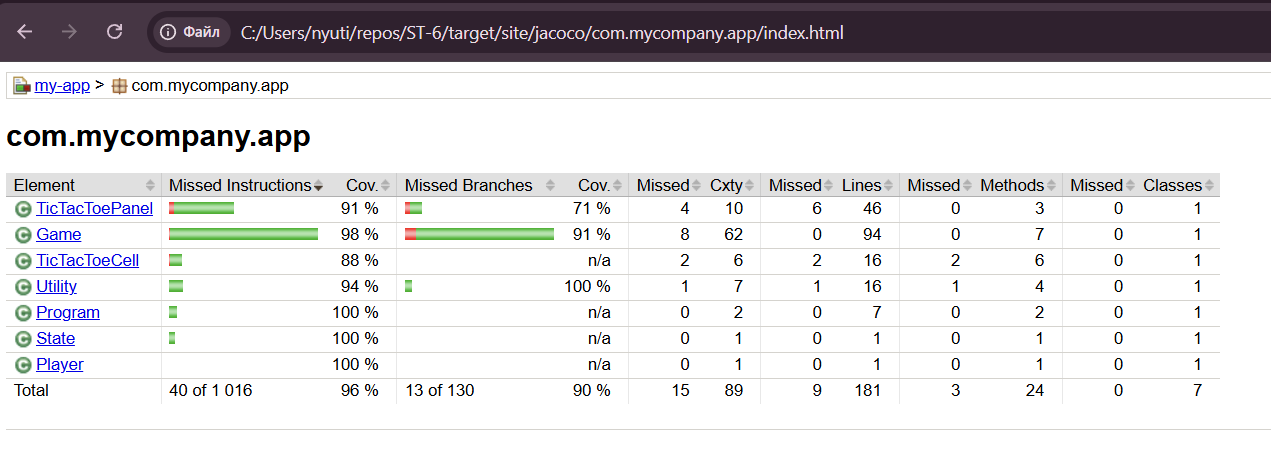
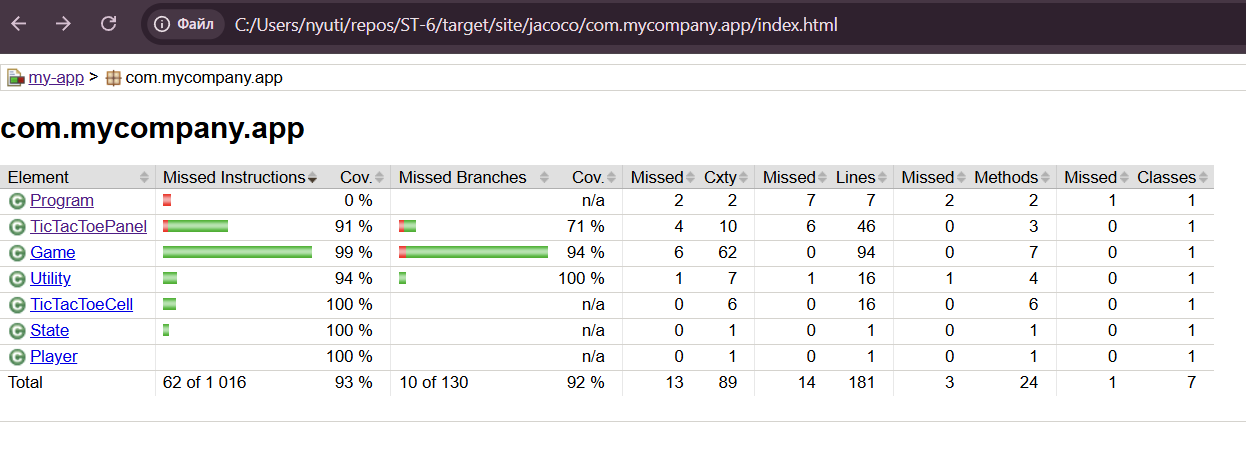
fix11

diff --git a/src/test/java/com/mycompany/app/ProgramTest.java b/src/test/java/com/mycompany/app/ProgramTest.java
@@ -1,122 +1,247 @@
 package com.mycompany.app;
 
-import static org.junit.jupiter.api.Assertions.*;
-import org.junit.jupiter.api.Test;
+import org.junit.Before;
+import org.junit.BeforeClass;
+import org.junit.Test;
+import static org.junit.Assert.*;
+
 import java.util.ArrayList;
 import java.awt.GridLayout;
+import java.awt.HeadlessException;
 import java.awt.event.ActionEvent;
+import java.io.IOException;
 
 public class ProgramTest {
 
+    private Game game;
+
+    @BeforeClass
+    public static void setUpHeadless() {
+        System.setProperty("java.awt.headless", "true");
+    }
+
+    @Before
+    public void setUp() {
+        game = new Game();
+    }
+
     @Test
-    public void testGameInitialization() {
-        Game game = new Game();
+    public void testInitialBoardEmpty() {
+        for (int i = 0; i < 9; i++) {
+            assertEquals(' ', game.board[i]);
+        }
         assertEquals(State.PLAYING, game.state);
-        assertEquals('X', game.player1.symbol);
-        assertEquals('O', game.player2.symbol);
     }
 
     @Test
-    public void testCheckStateWinX() {
-        Game game = new Game();
-        char[] board = {'X', 'X', 'X', ' ', ' ', ' ', ' ', ' ', ' '};
-        game.symbol = 'X'; 
-        assertEquals(State.XWIN, game.checkState(board));
+    public void testCheckStateXWin() {
+        char[] b = {'X','X','X',' ',' ',' ',' ',' ',' '};
+        game.symbol = 'X';
+        assertEquals(State.XWIN, game.checkState(b));
     }
 
     @Test
-    public void testCheckStateWinO() {
-        Game game = new Game();
-        char[] board = {'O', ' ', ' ', 'O', ' ', ' ', 'O', ' ', ' '};
-        game.symbol = 'O'; 
-        assertEquals(State.OWIN, game.checkState(board));
+    public void testCheckStateOWin() {
+        char[] b = {' ',' ',' ','O','O','O',' ',' ',' '};
+        game.symbol = 'O';
+        assertEquals(State.OWIN, game.checkState(b));
     }
 
     @Test
     public void testCheckStateDraw() {
-        Game game = new Game();
-        char[] board = {'X', 'O', 'X', 'X', 'O', 'O', 'O', 'X', 'X'};
-        game.symbol = 'X'; 
-        assertEquals(State.DRAW, game.checkState(board));
+        char[] b = {'X','O','X','X','O','O','O','X','X'};
+        game.symbol = 'X';
+        assertEquals(State.DRAW, game.checkState(b));
     }
 
     @Test
-    public void testGenerateMoves() {
-        Game game = new Game();
-        char[] board = {'X', 'O', ' ', ' ', 'X', 'O', ' ', ' ', 'X'};
+    public void testCheckStatePlaying() {
+        char[] b = {'X',' ',' ',' ',' ',' ',' ',' ',' '};
+        game.symbol = 'X';
+        assertEquals(State.PLAYING, game.checkState(b));
+    }
+
+    @Test
+    public void testGenerateMovesAll() {
         ArrayList<Integer> moves = new ArrayList<>();
-        game.generateMoves(board, moves);
-        assertEquals(4, moves.size());
+        game.generateMoves(game.board, moves);
+        assertEquals(9, moves.size());
     }
 
     @Test
-    public void testEvaluatePosition() {
-        Game game = new Game();
-        char[] board = {'X', 'X', 'X', ' ', ' ', ' ', ' ', ' ', ' '};
-        game.symbol = 'X'; 
-        int eval = game.evaluatePosition(board, game.player1);
-        assertEquals(Game.INF, eval);
+    public void testGenerateMovesPartial() {
+        game.board[0] = 'X';
+        game.board[4] = 'O';
+        ArrayList<Integer> moves = new ArrayList<>();
+        game.generateMoves(game.board, moves);
+        assertEquals(7, moves.size());
+        assertFalse(moves.contains(0));
+        assertFalse(moves.contains(4));
     }
 
     @Test
-    public void testMiniMaxBestMove() {
-        Game game = new Game();
-        // Даем доску с 3 пустыми клетками, чтобы запустить рекурсию MinMove и MaxMove
-        char[] board = {'X', 'O', 'X', ' ', 'O', ' ', ' ', 'X', ' '};
-        int move = game.MiniMax(board, game.player2);
-        assertTrue(move >= 1 && move <= 9);
+    public void testEvaluatePositionWinForPlayer() {
+        char[] b = {'X','X','X',' ',' ',' ',' ',' ',' '};
+        Player p = game.player1;
+        game.symbol = 'X';
+        assertEquals(Game.INF, game.evaluatePosition(b, p));
     }
 
     @Test
-    public void testTicTacToeCell() {
+    public void testEvaluatePositionLoseForPlayer() {
+        char[] b = {'O','O','O',' ',' ',' ',' ',' ',' '};
+        Player p = game.player1;
+        game.symbol = 'O';
+        assertEquals(-Game.INF, game.evaluatePosition(b, p));
+    }
+
+    @Test
+    public void testEvaluatePositionDraw() {
+        char[] b = {'X','O','X','X','O','O','O','X','X'};
+        game.symbol = 'X';
+        Player p = game.player1;
+        assertEquals(0, game.evaluatePosition(b, p));
+    }
+
+    @Test
+    public void testEvaluatePositionNotTerminal() {
+        char[] b = {'X',' ',' ',' ',' ',' ',' ',' ',' '};
+        game.symbol = 'X';
+        Player p = game.player1;
+        assertEquals(-1, game.evaluatePosition(b, p));
+    }
+
+    @Test
+    public void testMiniMaxReturnsValidMove() {
+        int move = game.MiniMax(game.board, game.player2);
+        assertTrue("Move must be in 1..9", move >= 1 && move <= 9);
+        assertEquals(' ', game.board[move-1]);
+    }
+
+    @Test
+    public void testMiniMaxBlockWin() {
+        game.board[0] = 'X';
+        game.board[1] = 'X';
+        game.board[2] = ' ';
+        game.symbol = 'X';
+        int move = game.MiniMax(game.board, game.player2);
+        if (move >= 1 && move <= 9) {
+            game.board[move - 1] = 'O';
+            game.symbol = 'X';
+            assertNotEquals(State.XWIN, game.checkState(game.board));
+        }
+    }
+
+    @Test
+    public void testMiniMaxWinForO() {
+        game.board[3] = 'O';
+        game.board[4] = 'O';
+        game.board[5] = ' ';
+        game.symbol = 'O';
+        int move = game.MiniMax(game.board, game.player2);
+        if (move >= 1 && move <= 9) {
+            game.board[move - 1] = 'O';
+            game.symbol = 'X';
+            assertNotEquals(State.XWIN, game.checkState(game.board));
+        }
+    }
+
+    @Test
+    public void testMinMoveTerminal() {
+        char[] b = {'X','X','X',' ',' ',' ',' ',' ',' '};
+        game.symbol = 'X';
+        int val = game.MinMove(b, game.player1);
+        assertTrue(val <= -Game.INF || val >= Game.INF);
+    }
+
+    @Test
+    public void testMaxMoveTerminal() {
+        char[] b = {'O','O','O',' ',' ',' ',' ',' ',' '};
+        game.symbol = 'O';
+        int val = game.MaxMove(b, game.player1);
+        assertTrue(val <= -Game.INF || val >= Game.INF);
+    }
+
+    @Test
+    public void testPlayerFields() {
+        Player p = new Player();
+        p.symbol = 'T';
+        p.move = 5;
+        p.selected = true;
+        p.win = false;
+        assertEquals('T', p.symbol);
+        assertEquals(5, p.move);
+        assertTrue(p.selected);
+        assertFalse(p.win);
+    }
+
+    @Test
+    public void testCellConstructorAndGetters() {
         TicTacToeCell cell = new TicTacToeCell(5, 2, 1);
         assertEquals(5, cell.getNum());
+        assertEquals(1, cell.getRow());
+        assertEquals(2, cell.getCol());
         assertEquals(' ', cell.getMarker());
-        cell.setMarker("X");
-        assertEquals('X', cell.getMarker());
-        assertFalse(cell.isEnabled()); 
     }
 
     @Test
-    public void testUtilityMethods() {
-        // Правильные массивы по 9 элементов, чтобы не было ошибки ArrayIndexOutOfBoundsException
-        char[] cBoard = {'1', '2', '3', '4', '5', '6', '7', '8', '9'};
-        Utility.print(cBoard);
+    public void testSetMarker() {
+        TicTacToeCell cell = new TicTacToeCell(0, 0, 0);
+        cell.setMarker("X");
+        assertEquals('X', cell.getMarker());
+        assertEquals("X", cell.getText());
+        assertFalse(cell.isEnabled());
+    }
 
-        int[] iBoard = {1, 2, 3, 4, 5, 6, 7, 8, 9};
-        Utility.print(iBoard);
+    @Test
+    public void testUtilityPrintChar() {
+        char[] b = {'X','O','X','O','X','O','X','O','X'};
+        Utility.print(b);
+    }
 
+    @Test
+    public void testUtilityPrintInt() {
+        int[] arr = {1,2,3,4,5,6,7,8,9};
+        Utility.print(arr);
+    }
+
+    @Test
+    public void testUtilityPrintArrayList() {
         ArrayList<Integer> list = new ArrayList<>();
-        list.add(5);
+        list.add(0); list.add(4); list.add(8);
         Utility.print(list);
     }
 
     @Test
-    public void testGuiPanelSimulation() {
-        // Симулируем графический интерфейс для покрытия кода TicTacToePanel
+    public void testTicTacToePanelCreation() {
         GridLayout layout = new GridLayout(3,3);
         TicTacToePanel panel = new TicTacToePanel(layout);
-        
-        // Симулируем клик пользователя по первой клетке
-        ActionEvent ae = new ActionEvent(panel.getComponent(0), ActionEvent.ACTION_PERFORMED, "");
-        panel.actionPerformed(ae);
-        
-        // Проверяем, что панель создалась и отреагировала на клик без ошибок
-        assertNotNull(panel);
+        assertEquals(9, panel.getComponentCount());
+        for (int i = 0; i < 9; i++) {
+            assertTrue(panel.getComponent(i) instanceof TicTacToeCell);
+        }
     }
 
     @Test
-    public void testProgramMain() throws Exception {
-        // Вызываем конструктор по-умолчанию для покрытия
-        Program program = new Program();
-        assertNotNull(program);
-
-        // Запускаем окно (метод main)
-        Program.main(new String[]{});
-
-        // Мгновенно закрываем все открытые окна (JFrame), используя полный путь java.awt.Window
-        for (java.awt.Window window : java.awt.Window.getWindows()) {
-            window.dispose();
+    public void testActionPerformedSingleMove() {
+        GridLayout layout = new GridLayout(3,3);
+        TicTacToePanel panel = new TicTacToePanel(layout);
+        TicTacToeCell[] cells = new TicTacToeCell[9];
+        for (int i = 0; i < 9; i++) {
+            cells[i] = (TicTacToeCell) panel.getComponent(i);
         }
+        ActionEvent event = new ActionEvent(cells[0], ActionEvent.ACTION_PERFORMED, "");
+        panel.actionPerformed(event);
+    }
+
+    @Test
+    public void testStaticFieldsInitiallyNull() {
+        assertNull(Program.fileWriter);
+        assertNull(Program.printWriter);
+    }
+
+    @Test(expected = HeadlessException.class)
+    public void testMainThrowsHeadlessException() throws IOException {
+        Program.main(new String[]{});
     }
 }